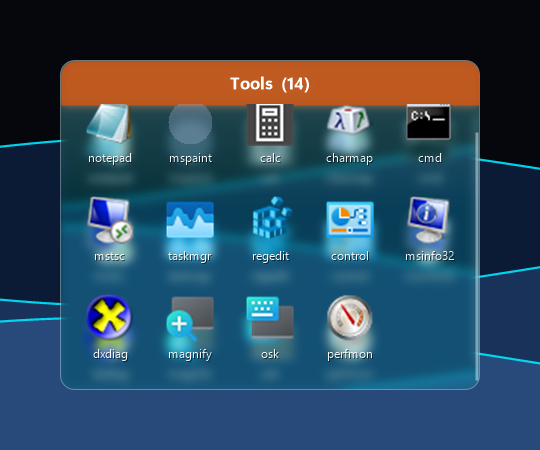
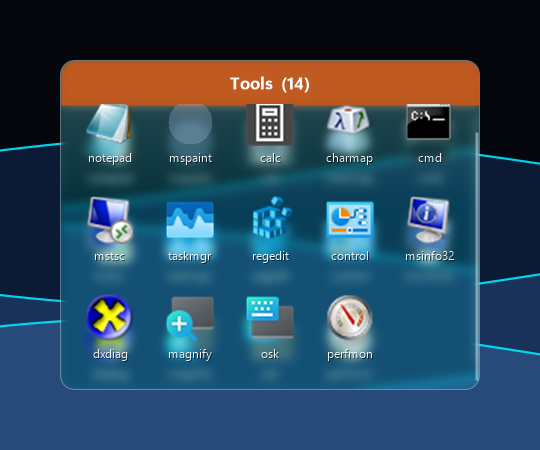
2.6.0-beta: phase 7/8 part 1 - keyboard navigation, accessibility tree, High Contrast drawing for container windows

diff --git a/src/Containers/ContainerWindow.cs b/src/Containers/ContainerWindow.cs
@@ -107,14 +107,20 @@ namespace MotionDesk.Containers
             try { return ColorTranslator.FromHtml(hex); } catch (Exception) { return fallback; }
         }
 
-        public static void Paint(Graphics g, Size client, Container model, ContainerMetrics m, int scroll, int hover, int selected, ContainerIcons icons, bool glass, float scale)
+        public static void Paint(Graphics g, Size client, Container model, ContainerMetrics m, int scroll, int hover, int selected, ContainerIcons icons, bool glass, float scale, bool? highContrast = null)
         {
+            var hc = highContrast ?? SystemInformation.HighContrast;   // Windows High Contrast: system colours only, opaque, no glass
             g.SmoothingMode = SmoothingMode.AntiAlias; g.InterpolationMode = InterpolationMode.HighQualityBicubic; g.TextRenderingHint = TextRenderingHint.AntiAliasGridFit;
             var radius = (int)Math.Round(14 * scale);
             var tb = model.TitleBar;
             var accent = MotionDesk.UI.UiTheme.AccentCyan;
 
-            if (!glass)   // no GPU glass: a translucent dark surface of its own
+            if (hc)
+            {
+                using var bg = new SolidBrush(SystemColors.Window); g.FillRectangle(bg, 0, 0, client.Width, client.Height);
+                using var bp = new Pen(SystemColors.WindowText, Math.Max(1, 2 * scale)); g.DrawRectangle(bp, 1, 1, client.Width - 3, client.Height - 3);
+            }
+            else if (!glass)   // no GPU glass: a translucent dark surface of its own
             {
                 using var path = MotionDesk.UI.UiTheme.RoundedPath(new Rectangle(0, 0, client.Width - 1, client.Height - 1), radius);
                 using var fill = new SolidBrush(Color.FromArgb(150, 24, 26, 34)); g.FillPath(fill, path);
@@ -123,12 +129,12 @@ namespace MotionDesk.Containers
 
             // ---- title bar: its OWN colour / opacity / height / font
             var barRect = new Rectangle(1, 1, client.Width - 2, m.TitleBarHeight);
-            var barColor = ParseColor(tb.Color, Color.FromArgb(255, accent.R / 3, accent.G / 3, accent.B / 3));
+            var barColor = hc ? SystemColors.Highlight : ParseColor(tb.Color, Color.FromArgb(255, accent.R / 3, accent.G / 3, accent.B / 3));
             using (var barPath = TopRounded(barRect, radius))
             {
-                using var bar = new SolidBrush(Color.FromArgb(Math.Clamp(tb.Opacity, 0, 100) * 255 / 100, barColor)); g.FillPath(bar, barPath);
+                using var bar = new SolidBrush(Color.FromArgb(hc ? 255 : Math.Clamp(tb.Opacity, 0, 100) * 255 / 100, barColor)); g.FillPath(bar, barPath);
             }
-            var textColor = ParseColor(tb.TextColor, Contrast(barColor));
+            var textColor = hc ? SystemColors.HighlightText : ParseColor(tb.TextColor, Contrast(barColor));
             using (var font = new Font(string.IsNullOrWhiteSpace(tb.FontFamily) ? "Segoe UI Variable Display" : tb.FontFamily, tb.FontSize * scale, tb.Bold ? FontStyle.Bold : FontStyle.Regular, GraphicsUnit.Point))
             using (var tbrush = new SolidBrush(textColor))
             {
@@ -150,15 +156,16 @@ namespace MotionDesk.Containers
             g.SetClip(view);
             using var labelFont = new Font("Segoe UI", 9f * scale, FontStyle.Regular, GraphicsUnit.Point);
             using var labelFmt = new StringFormat { Alignment = StringAlignment.Center, Trimming = StringTrimming.EllipsisWord, FormatFlags = StringFormatFlags.LineLimit };
-            using var labelBrush = new SolidBrush(Color.FromArgb(240, 255, 255, 255));
-            using var shadowBrush = new SolidBrush(Color.FromArgb(model.Appearance.TextShadow ? 150 : 0, 0, 0, 0));
+            using var labelBrush = new SolidBrush(hc ? SystemColors.WindowText : Color.FromArgb(240, 255, 255, 255));
+            using var shadowBrush = new SolidBrush(Color.FromArgb(model.Appearance.TextShadow && !hc ? 150 : 0, 0, 0, 0));
             for (var i = first; i <= last; i++)
             {
                 var cell = ContainerLayout.CellRect(i, client, m, scroll);
                 if (i == hover || i == selected)
                 {
                     using var hp = MotionDesk.UI.UiTheme.RoundedPath(cell, (int)(8 * scale));
-                    using var hb = new SolidBrush(Color.FromArgb(i == selected ? 70 : 38, 255, 255, 255)); g.FillPath(hb, hp);
+                    using var hb = hc ? new SolidBrush(i == selected ? SystemColors.Highlight : SystemColors.ControlLight) : new SolidBrush(Color.FromArgb(i == selected ? 70 : 38, 255, 255, 255)); g.FillPath(hb, hp);
+                    if (i == selected) { using var fp = new Pen(hc ? SystemColors.HighlightText : Color.FromArgb(220, 255, 255, 255), Math.Max(1f, 1.5f * scale)) { DashStyle = DashStyle.Dot }; g.DrawPath(fp, hp); }   // visible keyboard focus
                 }
                 var item = model.Items[i];
                 var iconRect = new Rectangle(cell.X + (cell.Width - m.IconSize) / 2, cell.Y + (int)(4 * scale), m.IconSize, m.IconSize);
@@ -167,7 +174,8 @@ namespace MotionDesk.Containers
                 var labelRect = new RectangleF(cell.X + 2, iconRect.Bottom + 3 * scale, cell.Width - 4, m.LabelHeight);
                 var shadowRect = labelRect; shadowRect.Offset(1, 1);
                 g.DrawString(name, labelFont, shadowBrush, shadowRect, labelFmt);
-                g.DrawString(name, labelFont, labelBrush, labelRect, labelFmt);
+                if (hc && i == selected) { using var sb = new SolidBrush(SystemColors.HighlightText); g.DrawString(name, labelFont, sb, labelRect, labelFmt); }
+                else g.DrawString(name, labelFont, labelBrush, labelRect, labelFmt);
             }
             g.ResetClip();
 
@@ -177,7 +185,7 @@ namespace MotionDesk.Containers
             {
                 var track = view.Height - 2 * m.Margin; var content = ContainerLayout.ContentHeight(client.Width, model.Items.Count, m);
                 var h = Math.Max(24, track * view.Height / Math.Max(1, content)); var y = view.Top + m.Margin + (track - h) * scroll / max;
-                using var tp = new SolidBrush(Color.FromArgb(110, 255, 255, 255));
+                using var tp = new SolidBrush(hc ? SystemColors.WindowText : Color.FromArgb(110, 255, 255, 255));
                 g.FillRectangle(tp, client.Width - 5 * scale, y, 3 * scale, h);
             }
         }
@@ -246,7 +254,7 @@ namespace MotionDesk.Containers
         protected override void OnPaintBackground(PaintEventArgs e) { }
 
         /// <summary>Draws the window; also usable for a test (renders into a bitmap of the same size).</summary>
-        public void RenderTo(Graphics g) => ContainerRenderer.Paint(g, Client, Model, Metrics, _scroll, _hover, _selected, _icons, GlassOn, Scale);
+        public void RenderTo(Graphics g, bool? highContrast = null) => ContainerRenderer.Paint(g, Client, Model, Metrics, _scroll, _hover, _selected, _icons, GlassOn, Scale, highContrast);
 
         private void Repaint()
         {
@@ -316,6 +324,70 @@ namespace MotionDesk.Containers
             }
             else { Bounds = ContainerBehavior.Unroll(Bounds, Model.UnrolledHeight, WorkArea); Model.RolledUp = false; }
             Dirty(); Changed?.Invoke(Model);
+        }
+
+        // ---- keyboard (phase 7/8): the window does not steal focus, so keys work after FocusForKeyboard() (hotkey / tray) or when Windows activates it for assistive tools ----
+        public int Selected => _selected;
+        public void FocusForKeyboard() { if (_selected < 0 && Model.Items.Count > 0) { _selected = 0; Dirty(); } Activate(); }
+
+        /// <summary>Handles one navigation key; returns true when it was used. Public so it can be tested without real keyboard input.</summary>
+        public bool HandleKey(Keys key)
+        {
+            var cols = ContainerLayout.Columns(Client.Width, Metrics);
+            NavKey? nav = key switch { Keys.Left => NavKey.Left, Keys.Right => NavKey.Right, Keys.Up => NavKey.Up, Keys.Down => NavKey.Down, Keys.Home => NavKey.Home, Keys.End => NavKey.End, Keys.PageUp => NavKey.PageUp, Keys.PageDown => NavKey.PageDown, _ => null };
+            if (nav != null)
+            {
+                _selected = ContainerNavigation.Move(_selected, nav.Value, cols, Model.Items.Count, Math.Max(1, ContainerLayout.Viewport(Client, Metrics).Height / Math.Max(1, Metrics.CellHeight)));
+                if (_selected >= 0) _scroll = ContainerLayout.ScrollIntoView(_selected, Client, Model.Items.Count, Metrics, _scroll);
+                Dirty(); return true;
+            }
+            if (key == Keys.Enter && _selected >= 0 && _selected < Model.Items.Count) { OpenItem(_selected); return true; }
+            if (key == Keys.Delete && _selected >= 0 && !Model.Locked) { RemoveItem(_selected); return true; }
+            if (key == Keys.Apps || key == (Keys.F10 | Keys.Shift)) { ShowMenu(_selected >= 0 ? ContainerLayout.CellRect(_selected, Client, Metrics, _scroll).Location : new Point(Metrics.Margin, Metrics.TitleBarHeight)); return true; }
+            return false;
+        }
+
+        public void OpenItem(int index)
+        {
+            try { var it = Model.Items[index]; System.Diagnostics.Process.Start(new System.Diagnostics.ProcessStartInfo(it.Path) { UseShellExecute = true, Arguments = it.Arguments ?? "" }); }
+            catch (Exception ex) { System.Diagnostics.Debug.WriteLine("container open: " + ex.Message); }
+        }
+
+        protected override bool ProcessCmdKey(ref Message msg, Keys keyData) => HandleKey(keyData) || base.ProcessCmdKey(ref msg, keyData);
+
+        // ---- UI Automation / MSAA: a custom-drawn window must describe itself, otherwise screen readers see an empty window ----
+        protected override AccessibleObject CreateAccessibilityInstance() => new WindowAccessible(this);
+
+        private sealed class WindowAccessible : ControlAccessibleObject
+        {
+            private readonly ContainerWindow _w;
+            public WindowAccessible(ContainerWindow w) : base(w) { _w = w; }
+            public override string? Name { get => _w.Model.Title + " container"; set { } }
+            public override AccessibleRole Role => AccessibleRole.List;
+            public override string? Description => $"{_w.Model.Items.Count} items" + (_w.Model.Locked ? ", locked" : "");
+            public override int GetChildCount() => _w.Model.Items.Count;
+            public override AccessibleObject? GetChild(int index) => index >= 0 && index < _w.Model.Items.Count ? new ItemAccessible(this, _w, index) : null;
+            public override AccessibleObject? HitTest(int x, int y)
+            {
+                var p = _w.PointToClient(new Point(x, y)); var i = ContainerLayout.HitTest(p, _w.Client, _w.Model.Items.Count, _w.Metrics, _w._scroll);
+                return i >= 0 ? GetChild(i) : this;
+            }
+        }
+
+        private sealed class ItemAccessible : AccessibleObject
+        {
+            private readonly AccessibleObject _parent; private readonly ContainerWindow _w; private readonly int _i;
+            public ItemAccessible(AccessibleObject parent, ContainerWindow w, int i) { _parent = parent; _w = w; _i = i; }
+            private ContainerItem Item => _w.Model.Items[Math.Min(_i, _w.Model.Items.Count - 1)];
+            public override string? Name { get => string.IsNullOrEmpty(Item.DisplayName) ? System.IO.Path.GetFileNameWithoutExtension(Item.Path) : Item.DisplayName; set { } }
+            public override string? Description => Item.Path;
+            public override AccessibleObject? Parent => _parent;
+            public override AccessibleRole Role => AccessibleRole.ListItem;
+            public override string DefaultAction => "Open";
+            public override void DoDefaultAction() => _w.OpenItem(_i);
+            public override AccessibleStates State => AccessibleStates.Selectable | AccessibleStates.Focusable | (_w._selected == _i ? AccessibleStates.Selected | AccessibleStates.Focused : 0);
+            public override Rectangle Bounds => _w.RectangleToScreen(ContainerLayout.CellRect(_i, _w.Client, _w.Metrics, _w._scroll));
+            public override void Select(AccessibleSelection flags) { if ((flags & AccessibleSelection.TakeSelection) != 0) { _w._selected = _i; _w._scroll = ContainerLayout.ScrollIntoView(_i, _w.Client, _w.Model.Items.Count, _w.Metrics, _w._scroll); _w.Dirty(); } }
         }
 
         // ---- context menu: the container's OWN small menu (no shell extensions loaded into our process); every action is isolated by try/catch ----

diff --git a/src/Services/DesktopDiagnostics.cs b/src/Services/DesktopDiagnostics.cs
@@ -212,6 +212,17 @@ namespace MotionDesk.Services
                 int added = win.AcceptDrop(new[] { extra, dupe, "" }, new Point(60, 120));
                 report.Add($"drop: added={added} (expected 1 or 0 if file missing, duplicate skipped) items {before}->{model.Items.Count} changedEvents={fired}; fileUntouched={File.Exists(dupe)}");
                 var firstBefore = model.Items[0].Path; win.MoveItem(0, new Point(300, 300));
+                // phase 7/8: keyboard, accessibility tree, high contrast
+                win.HandleKey(Keys.Right); win.HandleKey(Keys.Right); win.HandleKey(Keys.Down);
+                report.Add($"keyboard: selected={win.Selected} after Right,Right,Down (expected >= 2)");
+                var acc = win.AccessibilityObject;
+                report.Add($"accessibility: name='{acc.Name}' role={acc.Role} children={acc.GetChildCount()} (items={model.Items.Count}) child0='{acc.GetChild(0)?.Name}' action='{acc.GetChild(0)?.DefaultAction}'");
+                using (var hcBmp = new Bitmap(win.Width, win.Height, System.Drawing.Imaging.PixelFormat.Format32bppPArgb))
+                {
+                    using (var g = Graphics.FromImage(hcBmp)) win.RenderTo(g, true);
+                    var px = hcBmp.GetPixel(win.Width / 4, 8); var hl = SystemColors.Highlight;
+                    report.Add($"high contrast: title bar pixel={px} equals system Highlight={px.R == hl.R && px.G == hl.G && px.B == hl.B && px.A == 255}");
+                }
                 var swIcons = Stopwatch.StartNew(); win.WaitIcons(5000);
                 report.Add($"icons: background extraction finished in {swIcons.ElapsedMilliseconds} ms (UI thread kept pumping)");
                 int cnt = model.Items.Count; win.RemoveItem(0);

diff --git a/core/Opsis.Containers.Core/Navigation.cs b/core/Opsis.Containers.Core/Navigation.cs
@@ -1,0 +1,29 @@
+namespace Opsis.Containers;
+
+public enum NavKey { Left, Right, Up, Down, Home, End, PageUp, PageDown }
+
+/// <summary>Keyboard navigation over the icon grid as a pure function (phase 7/8, accessibility). No selection yet (-1) starts at the first item.</summary>
+public static class ContainerNavigation
+{
+    public static int Move(int current, NavKey key, int columns, int count, int rowsPerPage = 3)
+    {
+        if (count <= 0) return -1;
+        columns = Math.Max(1, columns);
+        if (current < 0 || current >= count) return key == NavKey.End ? count - 1 : 0;
+        var target = key switch
+        {
+            NavKey.Left => current - 1,
+            NavKey.Right => current + 1,
+            NavKey.Up => current - columns,
+            NavKey.Down => current + columns,
+            NavKey.PageUp => current - columns * Math.Max(1, rowsPerPage),
+            NavKey.PageDown => current + columns * Math.Max(1, rowsPerPage),
+            NavKey.Home => 0,
+            NavKey.End => count - 1,
+            _ => current
+        };
+        if (key == NavKey.Down && target >= count) target = current;                 // last row: Down stays (does not jump to the end)
+        if (key == NavKey.PageDown && target >= count) target = count - 1;
+        return Math.Clamp(target, 0, count - 1);
+    }
+}

diff --git a/core/Opsis.Containers.Core.Tests/NavigationTests.cs b/core/Opsis.Containers.Core.Tests/NavigationTests.cs
@@ -1,0 +1,28 @@
+using Opsis.Containers;
+using Xunit;
+
+namespace Opsis.Containers.Tests;
+
+public sealed class NavigationTests
+{
+    [Fact]
+    public void ArrowsMoveByCellAndRow()
+    {
+        Assert.Equal(1, ContainerNavigation.Move(0, NavKey.Right, 4, 10));
+        Assert.Equal(4, ContainerNavigation.Move(0, NavKey.Down, 4, 10));
+        Assert.Equal(0, ContainerNavigation.Move(4, NavKey.Up, 4, 10));
+        Assert.Equal(0, ContainerNavigation.Move(0, NavKey.Left, 4, 10));      // clamped
+        Assert.Equal(9, ContainerNavigation.Move(9, NavKey.Down, 4, 10));      // already on the last row
+    }
+
+    [Fact]
+    public void HomeEndPagesAndNoSelectionYet()
+    {
+        Assert.Equal(0, ContainerNavigation.Move(7, NavKey.Home, 4, 10));
+        Assert.Equal(9, ContainerNavigation.Move(2, NavKey.End, 4, 10));
+        Assert.Equal(9, ContainerNavigation.Move(2, NavKey.PageDown, 4, 10, 5));
+        Assert.Equal(0, ContainerNavigation.Move(-1, NavKey.Right, 4, 10));
+        Assert.Equal(9, ContainerNavigation.Move(-1, NavKey.End, 4, 10));
+        Assert.Equal(-1, ContainerNavigation.Move(0, NavKey.Right, 4, 0));
+    }
+}

diff --git a/docs/PLAN-2.6.0-PROGRESS.md b/docs/PLAN-2.6.0-PROGRESS.md
@@ -34,6 +34,7 @@ Updated 2026-11-10. Rule of this file: if a session is cut off, the next one sta
 | 6 windows and behaviour | FIRST WINDOW DONE (part B slice): `src/Containers/ContainerWindow.cs` = layered per-pixel-alpha window + Opsis.Glass pane, own rendering (`ContainerRenderer`: title bar with ITS OWN colour / opacity / height / font, visible-rows-only icon grid, labels with shadow, lock glyph, scroll indicator), title drag with snapping, corner resize, wheel scroll, double click = roll-up, bounded icon cache. Checked with `Opsis.exe --test-container-window` (screenshots `docs/spike2/container/`, the title bar pixel is orange while the frame is transparent). Earlier part A: the behaviour rules as pure tested functions (`ContainerBehavior`: snap to edges / other containers, resize limits, roll-up with the container's OWN title-bar height, keep reachable after a monitor change, lock, hit test; 8 tests). PART B NOT done: the real window host (non-activating layered window + glass pane), z-order next to the desktop icon layer and the wallpaper window, Win+D / Explorer restart behaviour - these need real-desktop tests |
 | 3 shell (part 1) | DONE: `DropRules` (pure, 7 tests) + `ContainerWindow` drop of files as REFERENCES (no duplicates, own folder refused), drag to reorder, drag-out as file drop; checked in `--test-container-window` (added 1, duplicate skipped, reorder). Part 2 DONE: icon extraction on one background worker (placeholder first, bitmaps inserted into the bounded cache on the UI thread only), own context menu (Open / Show in folder / Remove reference / Lock / Roll up, each action try/catch-isolated, no shell extensions loaded). NOT done: Copy/Move/Link choice, hiding desktop originals; mspaint (Store alias) keeps the fallback icon |
 | 5/9 integration (part 1) | DONE: `ContainerHost` (live windows follow the stored data; pipe commands create/delete/move/show/hide/set-title-style refresh them; debounced write-back under the service lock; re-seat after a monitor change; rules evaluated every 3 s, edge-triggered), `RuleEngine` (monitor count, process running, time range wrapping midnight, fullscreen app; hide/show/revert/load-snapshot), named layout snapshots (`snapshot-save/list/load/delete`, rules kept across loads), hidden flag `UseNativeContainers` in settings.json starts the host from the tray (own file `containers-native.json`; OFF by default; turn the WPF engine off first). Checked: 49 core tests, `--test-container-host` (create/hide/show/write-back/delete through the pipe). NOT done: UI for rules/snapshots, hotkeys via the registrar, tray menu entries, perf governor/safe-mode/ProcessFreezer hooks, options.json import |
+| 7/8 accessibility (part 1) | DONE: pure keyboard navigation (`ContainerNavigation`, tests), `HandleKey` (arrows/Home/End/PgUp/PgDn/Enter/Delete/Apps), `FocusForKeyboard()`, visible focus rectangle, MSAA/UI Automation tree (list + list items with name, path, bounds, Open action, selection), Windows High Contrast drawing (system colours, opaque, no glass). Checked in `--test-container-window` (selection moves, 15 accessible children, HC title bar = system Highlight); 51 core tests. NOT done / needs the user: real screen-reader (Narrator/NVDA) pass, focus model (the window is non-activating: keys work after `FocusForKeyboard()`, which no hotkey calls yet), real High Contrast theme switch, per-monitor DPI move between 100 % and 150-200 % monitors, monitor hot-plug (the host re-seats windows on DisplaySettingsChanged: logic only) |
 | 2 rendering, 5/9 rest, 7/8 a11y+DPI, switch off the fork | NOT started |
 
 ## Asked from the user (manual tests, steps in design doc 6.6)
@@ -58,4 +59,4 @@ Not done: z-order against the desktop icon layer and the wallpaper window (the w
 Manual test (Windows 11, needs the user): none can be run before the container host is started from Opsis itself (phase 6 part B/9); steps will be written when it is wired.
 
 ## Where I stopped
-Phase 5/9 part 1 committed (host + rules + snapshots). Next: hotkeys/tray entries/perf-governor hooks (5/9 rest), phases 7/8 (accessibility, High Contrast, DPI/hot-plug), then switch off the fork. Manual tests to ask from the user once `UseNativeContainers` is on: containers appear over the real wallpaper/icons, Win+D, Explorer restart, two monitors with different DPI.
+7/8 part 1 committed (keyboard, accessibility tree, High Contrast). Next: 5/9 rest (hotkey -> FocusForKeyboard / show-hide, tray entries, perf-governor + safe-mode hooks, options.json import), then z-order / Win+D (phase 6 part B, needs the user), then the fork switch-off (remove `containers/`, csproj excludes, installer, legacy files) - that last step only after the user has tried `UseNativeContainers`.
